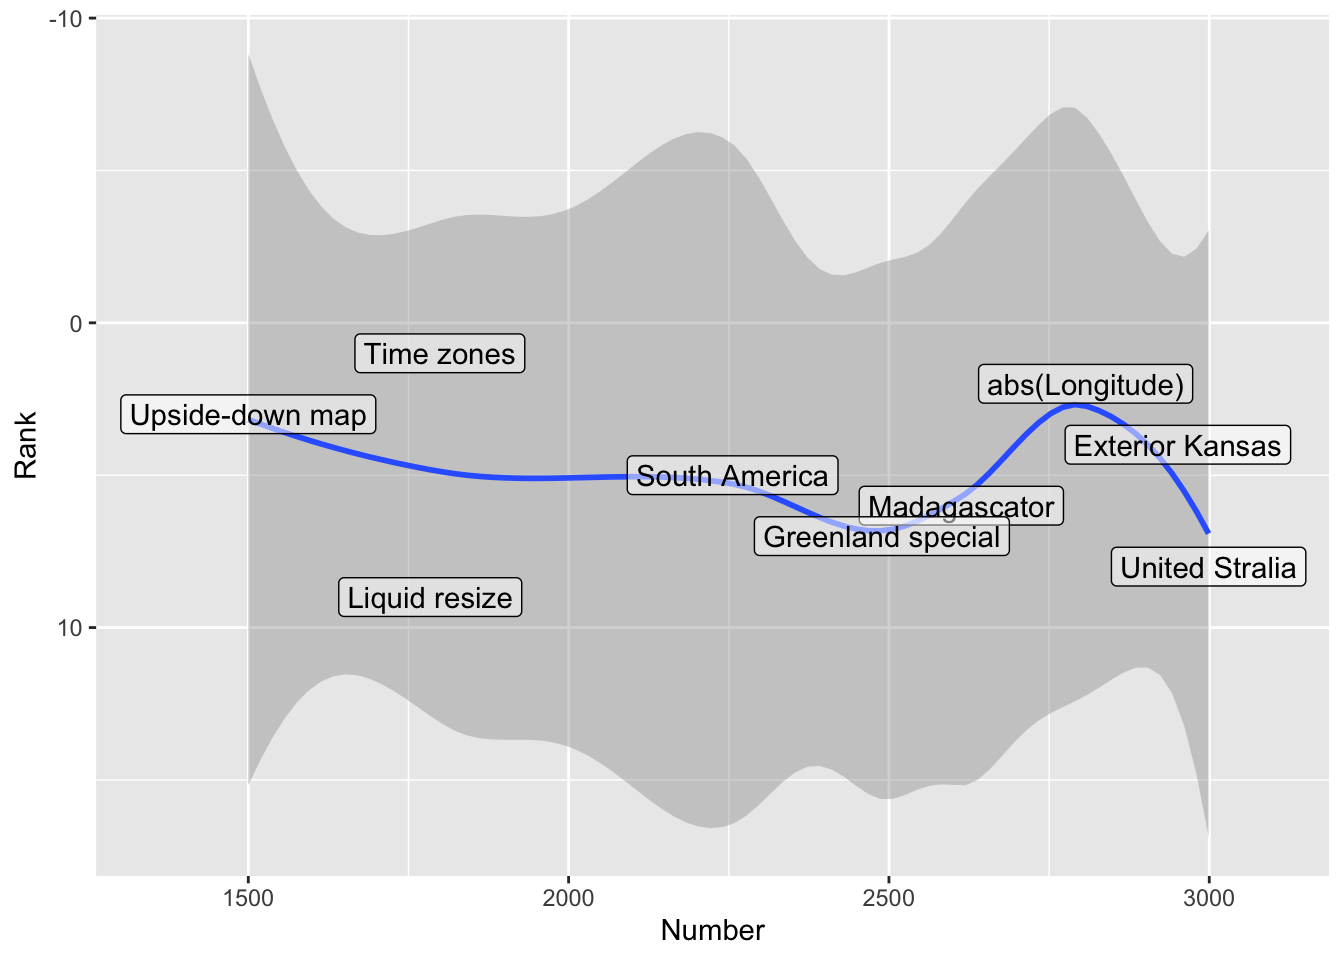
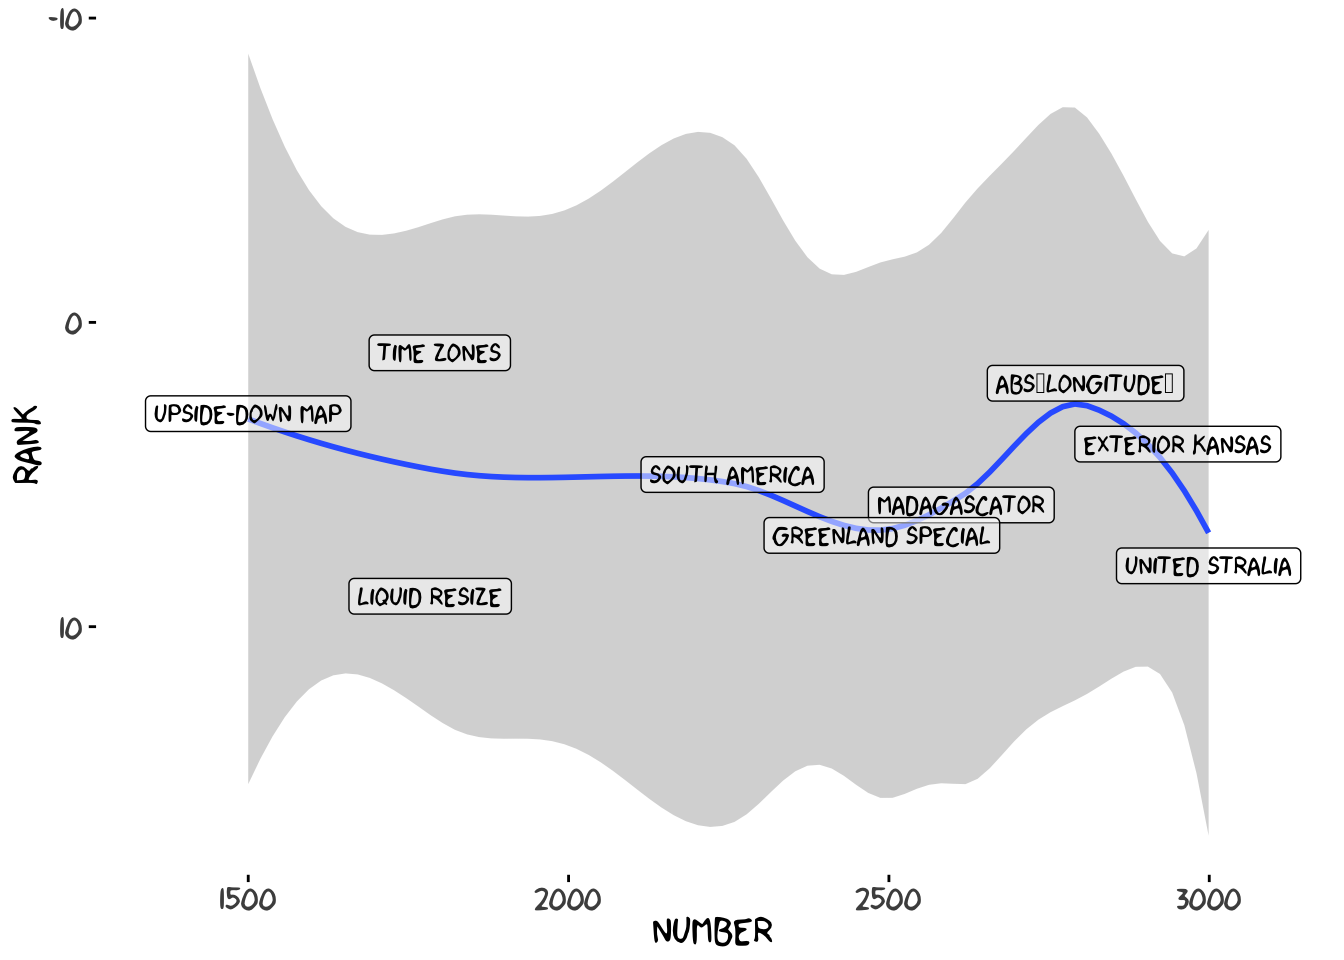
xkcd theme added to analysis

diff --git a/docs/posts/2025-05-16-xkcd-bad-projections-ranked/xkcd-bad-projections-ranked.html b/docs/posts/2025-05-16-xkcd-bad-projections-ranked/xkcd-bad-projections-ranked.html
@@ -282,7 +282,8 @@ pre > code.sourceCode > span > a:first-child::before { text-decoration: underlin
 <span id="annotated-cell-1-4"><a href="#annotated-cell-1-4" aria-hidden="true" tabindex="-1"></a><span class="fu">library</span>(dplyr)</span>
 <span id="annotated-cell-1-5"><a href="#annotated-cell-1-5" aria-hidden="true" tabindex="-1"></a><span class="fu">library</span>(ggplot2)</span>
 <button class="code-annotation-anchor" data-target-cell="annotated-cell-1" data-target-annotation="3">3</button><span id="annotated-cell-1-6" class="code-annotation-target"><a href="#annotated-cell-1-6" aria-hidden="true" tabindex="-1"></a><span class="fu">library</span>(stringr)</span>
-<button class="code-annotation-anchor" data-target-cell="annotated-cell-1" data-target-annotation="4">4</button><span id="annotated-cell-1-7" class="code-annotation-target"><a href="#annotated-cell-1-7" aria-hidden="true" tabindex="-1"></a><span class="fu">library</span>(smoothr)</span><div class="code-annotation-gutter-bg"></div><div class="code-annotation-gutter"></div></code><button title="Copy to Clipboard" class="code-copy-button"><i class="bi"></i></button></pre></div>
+<button class="code-annotation-anchor" data-target-cell="annotated-cell-1" data-target-annotation="4">4</button><span id="annotated-cell-1-7" class="code-annotation-target"><a href="#annotated-cell-1-7" aria-hidden="true" tabindex="-1"></a><span class="fu">library</span>(smoothr)</span>
+<button class="code-annotation-anchor" data-target-cell="annotated-cell-1" data-target-annotation="5">5</button><span id="annotated-cell-1-8" class="code-annotation-target"><a href="#annotated-cell-1-8" aria-hidden="true" tabindex="-1"></a><span class="fu">library</span>(xkcd)</span><div class="code-annotation-gutter-bg"></div><div class="code-annotation-gutter"></div></code><button title="Copy to Clipboard" class="code-copy-button"><i class="bi"></i></button></pre></div>
 </details>
 <div class="cell-annotation">
 <dl class="code-annotation-container-hidden code-annotation-container-grid">
@@ -301,6 +302,10 @@ pre > code.sourceCode > span > a:first-child::before { text-decoration: underlin
 <dt data-target-cell="annotated-cell-1" data-target-annotation="4">4</dt>
 <dd>
 <span data-code-cell="annotated-cell-1" data-code-lines="7" data-code-annotation="4">To <code>densify</code> some shapes.</span>
+</dd>
+<dt data-target-cell="annotated-cell-1" data-target-annotation="5">5</dt>
+<dd>
+<span data-code-cell="annotated-cell-1" data-code-lines="8" data-code-annotation="5">The less said about this the better.</span>
 </dd>
 </dl>
 </div>

diff --git a/docs/blog.html b/docs/blog.html
@@ -260,7 +260,7 @@ window.Quarto = {
 
 <div class="quarto-listing quarto-listing-container-default" id="listing-listing">
 <div class="list quarto-listing-default">
[2 lines of base64/hex data omitted]
 <div class="thumbnail">
 <p><a href="./posts/2025-05-16-xkcd-bad-projections-ranked/xkcd-bad-projections-ranked.html" class="no-external"></a></p><a href="./posts/2025-05-16-xkcd-bad-projections-ranked/xkcd-bad-projections-ranked.html" class="no-external">
 <p><img loading="lazy" src="./posts/2025-05-16-xkcd-bad-projections-ranked/images/01-xkcd-1799-bad_map_projection_time_zones_2x.png" class="thumbnail-image"></p>
